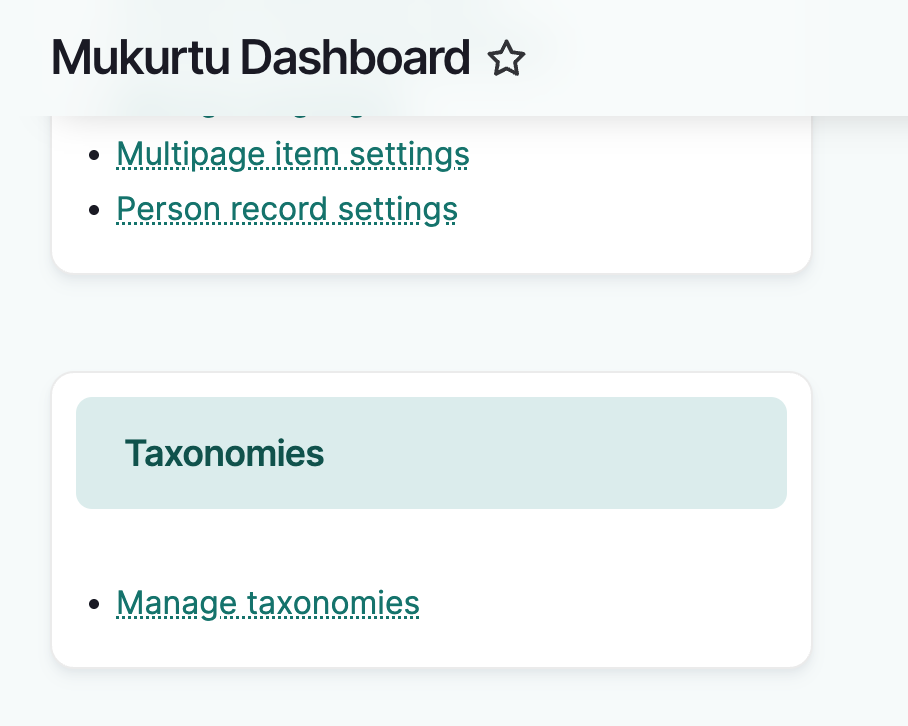
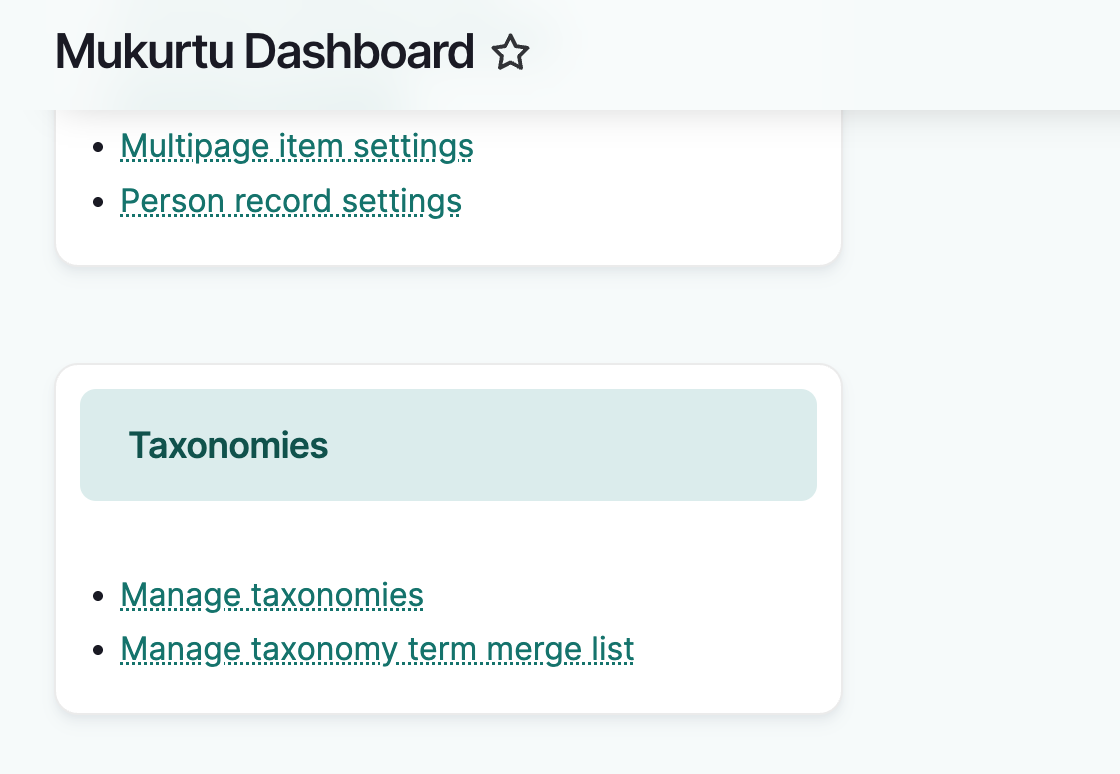
Requested changes

diff --git a/docs/taxonomies/ManagingTaxonomies.md b/docs/taxonomies/ManagingTaxonomies.md
@@ -27,6 +27,7 @@ There may be a need to manage or clean up taxonomy terms. Most commonly this hap
     ![The taxonomy page with "list terms" highlighted](../_embeds/manage-tax-02.png)
 
 Here are some terms created in the *keyword* taxonomy
+
 ![The keyword taxonomy list with terms "food," and "recipes"](../_embeds/manage-tax-03.png)
 
 ## Add a taxonomy term
@@ -39,7 +40,7 @@ Here are some terms created in the *keyword* taxonomy
 
     ![The add term form filled out. The save button is highlighted](../_embeds/manage-tax-19.png)
 
-3. A fresh add term form with a sucess message will reload and a success message will be displayed
+3. A page will reload and a success message will be displayed
 
     ![The add term form with a success message displayed](../_embeds/manage-tax-20.png)
 
@@ -135,6 +136,8 @@ Alternatively, select the **Structure** menu in the left hand sidebar menu and s
 
 ![The structure menu icon - three squares layered on top of each other - which opens the structure menu is highlighted. The "merge term from list" menu item is also highlighted.](../_embeds/manage-tax-15.png)    
 
+This can also be accessed through the dashboard in the **Taxonomies** section.
+![The dashboard with "Manage taxonomy term merge list" highlighted](../_embeds/manage-tax-21.png)
 
 In the "Name" column is a list of terms that will automatically be replaced when used in content. In this example, "Basket making" and "Baskets" will be changed to "Basketry" when used.
 
